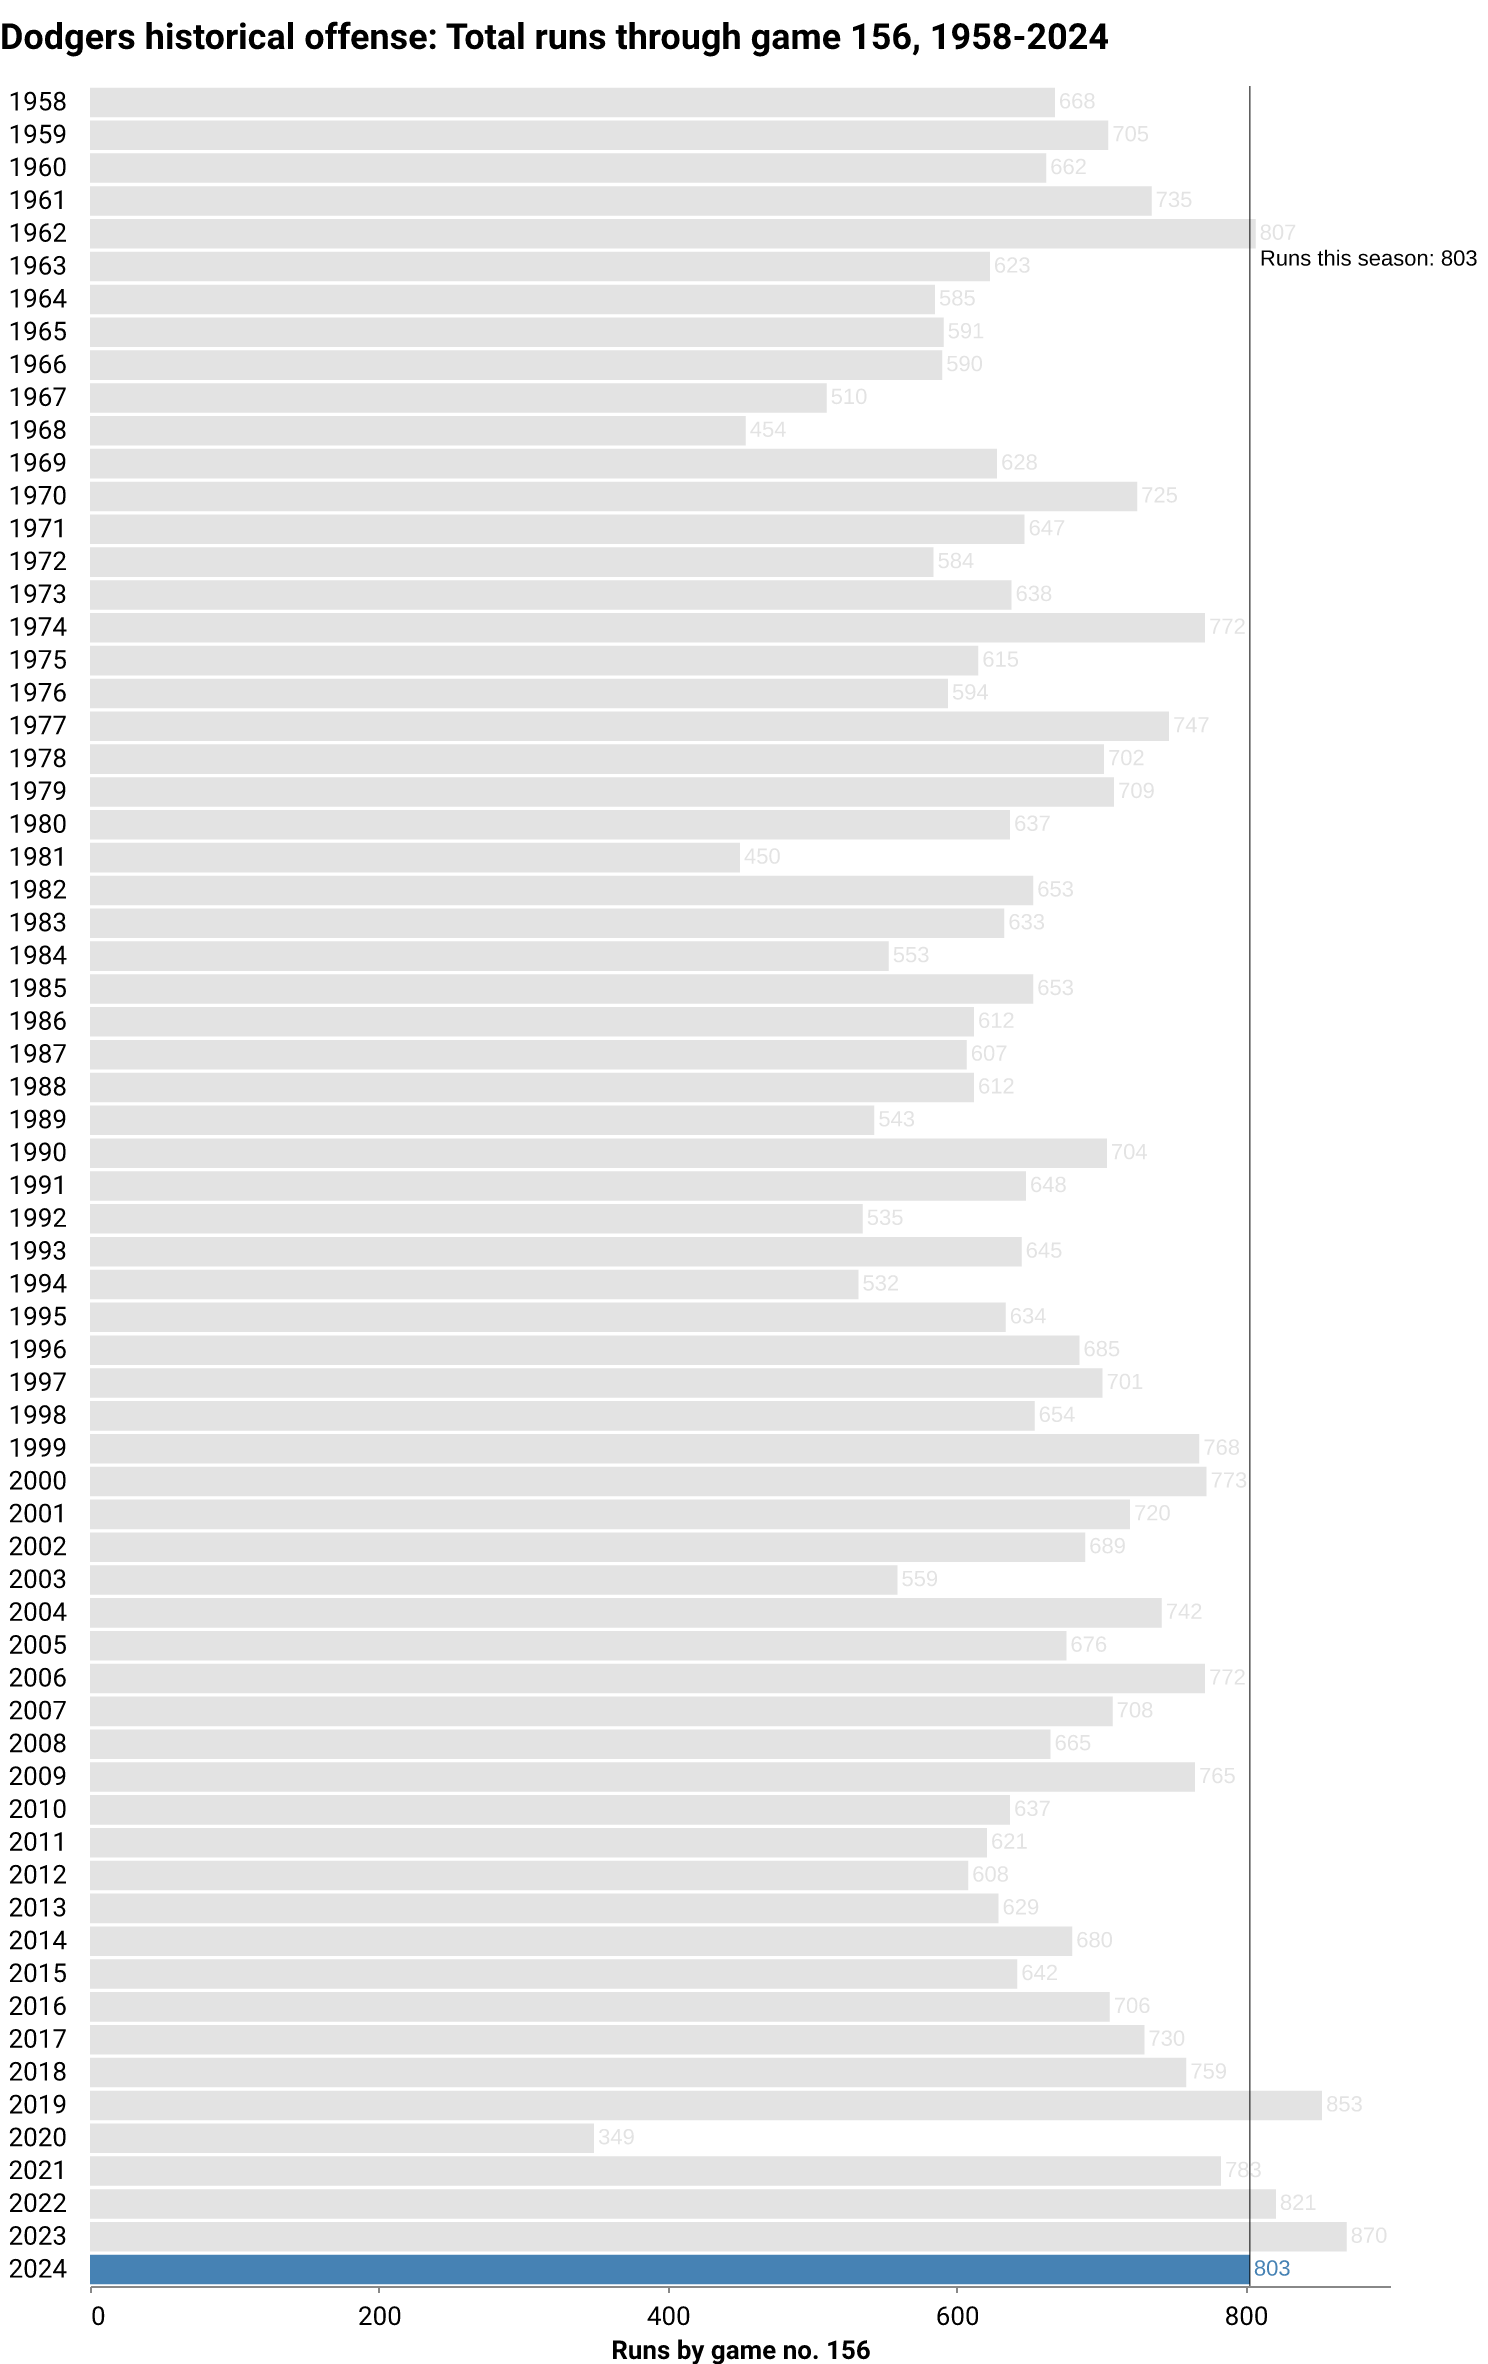
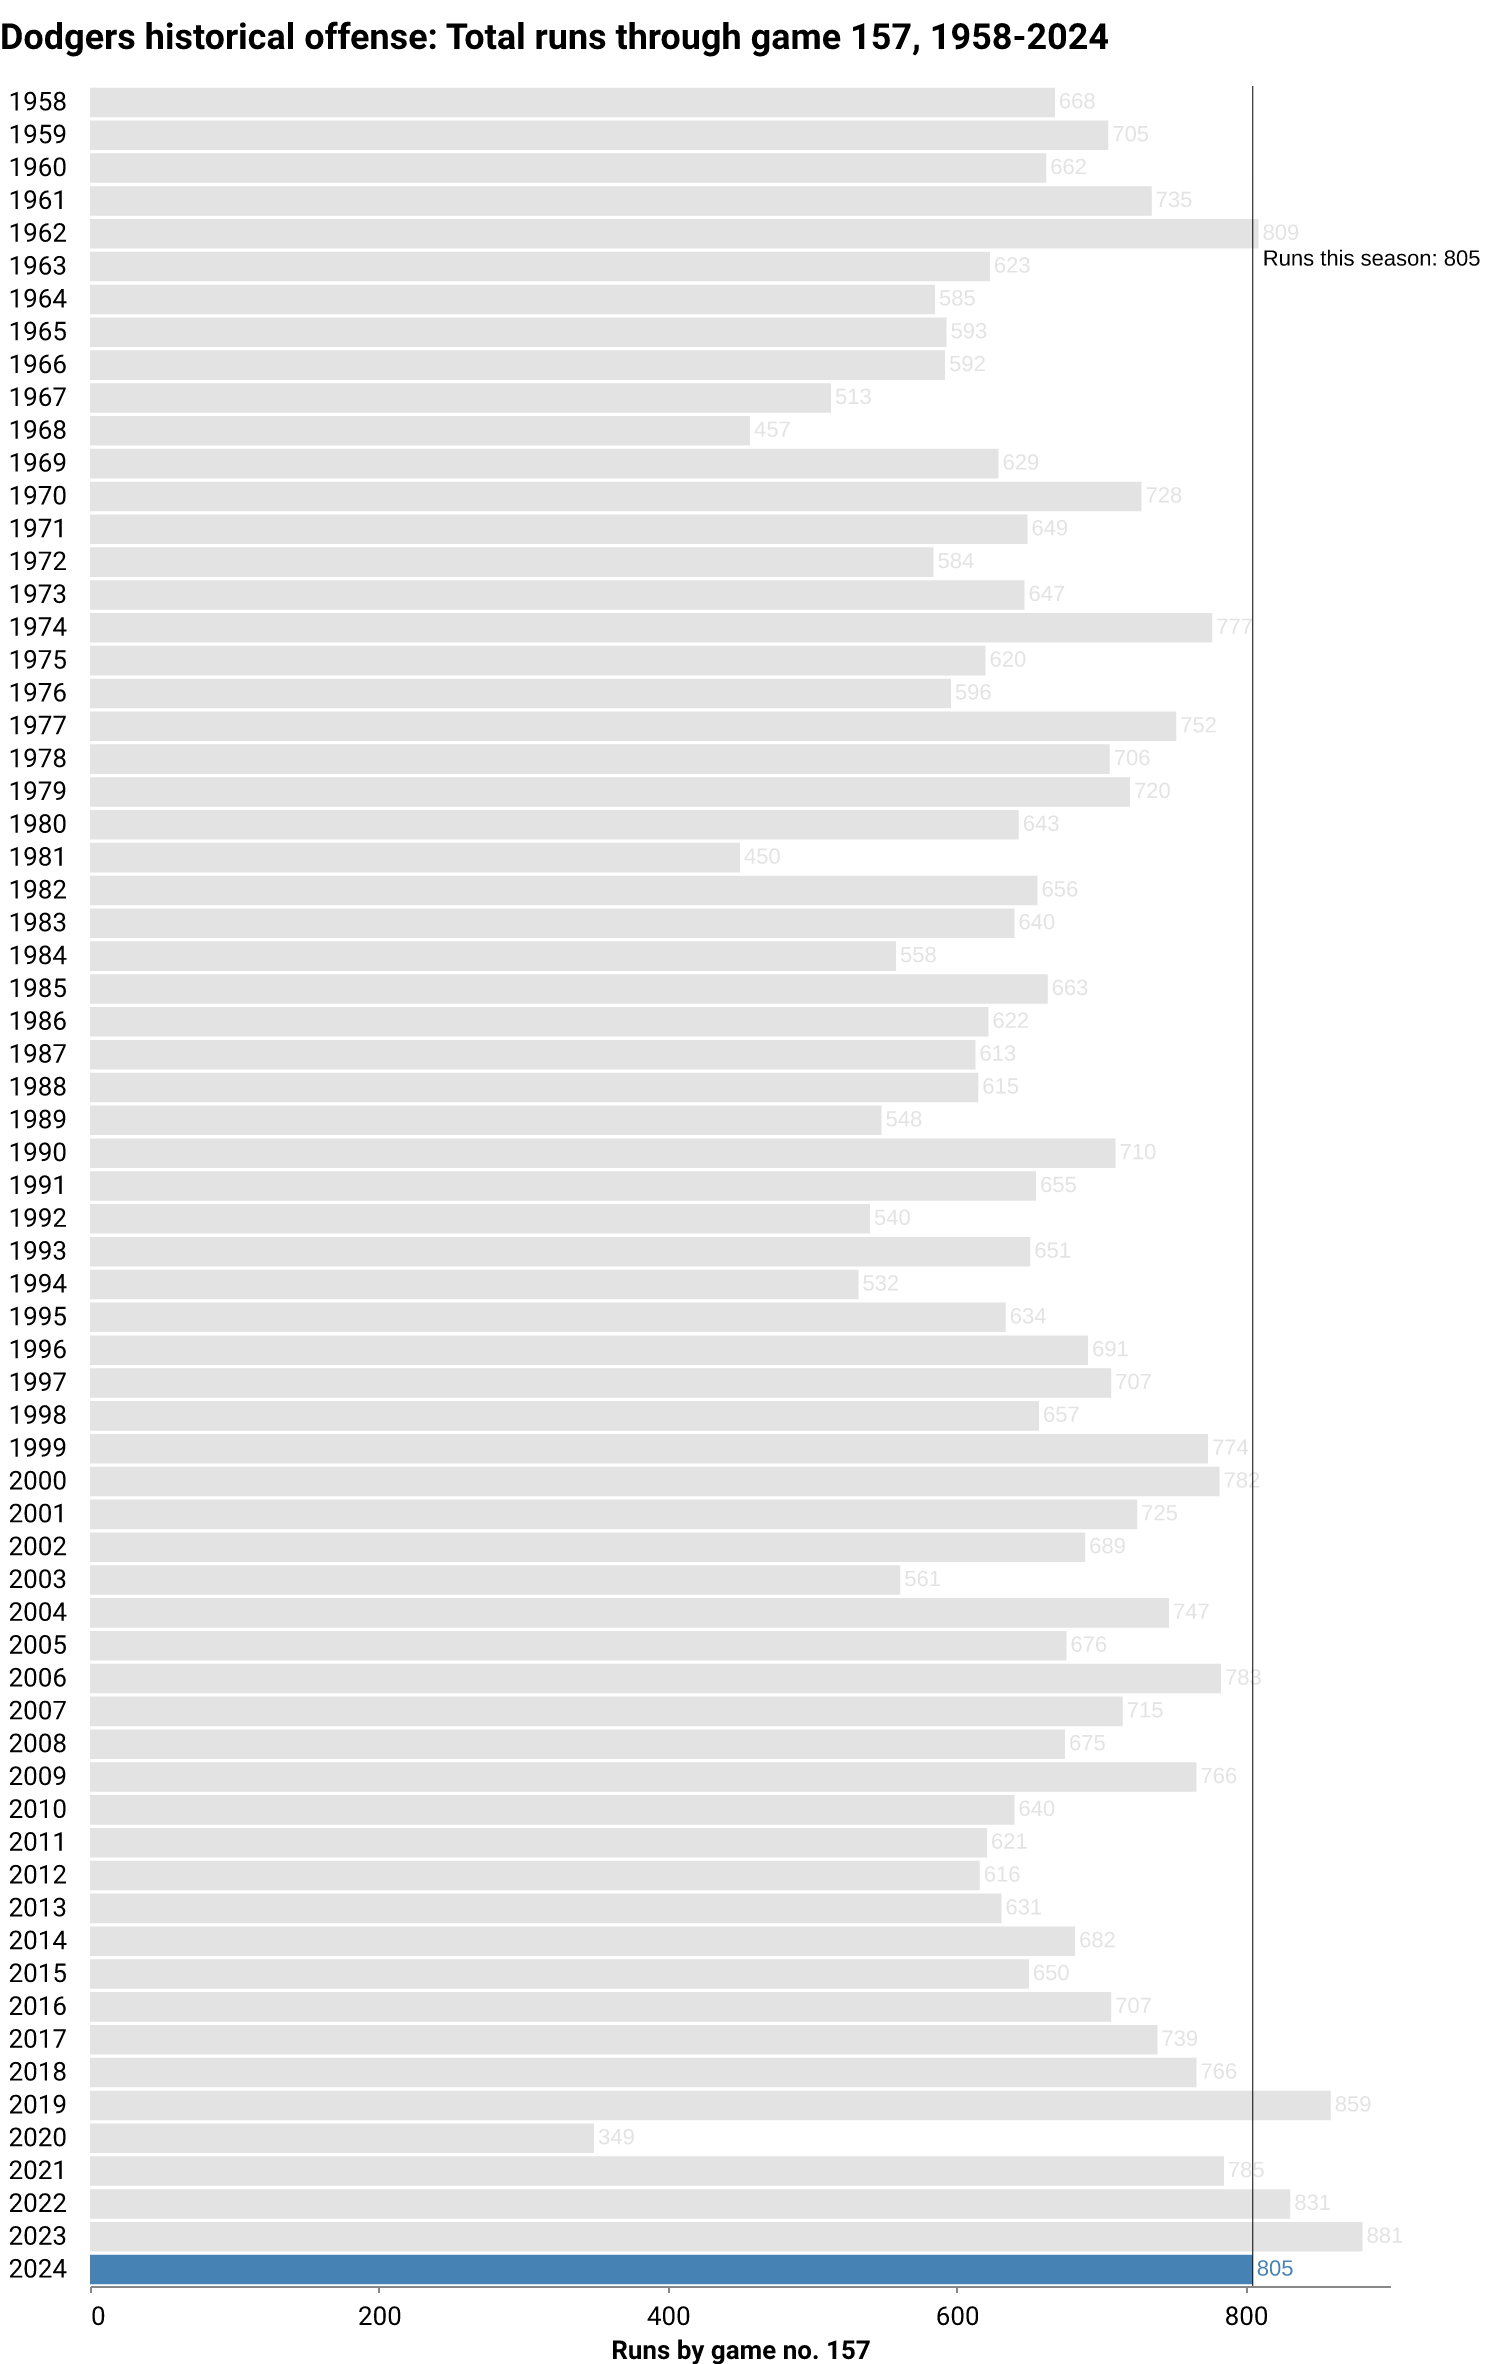
deploy: b23a1b70c40e7889449afc7167f664152f757f57

diff --git a/index.html b/index.html
@@ -177,14 +177,14 @@
     
     
     
-        <i class="fa-solid fa-arrow-trend-up" style="color: #005a9c;"></i>
+        <i class="fa-solid fa-arrow-trend-down" style="color: #ef3e42;"></i>
     
 </div>
 <h1 class="headline">How are the Dodgers doing?</h1>
 <p class="subhead">
     
     
-    <span class="highlight">LOS ANGELES</span> <span class="updated">(September 25)</span> — After <span class="highlight">156</span> games this season, the Dodgers are in <span class="highlight">1st</span> place in the National League West division. The team has compiled a <span class="highlight">93-63</span> record, winning <span class="highlight">60%</span> of its games so far. The last game was a <span class="highlight">6-5</span> home <span class="highlight">win</span> against the Colorado Rockies in front of <span class="highlight">50,730</span> fans. They've won <span class="highlight">6 of the last 10</span>.
+    <span class="highlight">LOS ANGELES</span> <span class="updated">(September 25)</span> — After <span class="highlight">157</span> games this season, the Dodgers are in <span class="highlight">1st</span> place in the National League West division. The team has compiled a <span class="highlight">93-64</span> record, winning <span class="highlight">59%</span> of its games so far. The last game was a <span class="highlight">2-4</span> home <span class="highlight">loss</span> against the San Diego Padres in front of <span class="highlight">50,369</span> fans. They've won <span class="highlight">6 of the last 10</span>.
 </p>
 </div>
 
@@ -209,7 +209,7 @@
             <p class="card-text">93</p>
           </div>
           <div class="card-footer text-muted">
-        This point last season: 96
+        This point last season: 97
           </div>
         </div>
       </div>
@@ -222,7 +222,7 @@
             Losses
           </div>
           <div class="card-body">
-            <p class="card-text">63</p>
+            <p class="card-text">64</p>
           </div>
           <div class="card-footer text-muted">
         This point last season: 60
@@ -238,10 +238,10 @@
             Record
           </div>
           <div class="card-body">
-            <p class="card-text">93-63</p>
+            <p class="card-text">93-64</p>
           </div>
           <div class="card-footer text-muted">
-        This point last season: 96-60
+        This point last season: 97-60
           </div>
         </div>
       </div>
@@ -254,7 +254,7 @@
             Win percentage
           </div>
           <div class="card-body">
-            <p class="card-text">60%</p>
+            <p class="card-text">59%</p>
           </div>
           <div class="card-footer text-muted">
         This point last season: 62%
@@ -270,7 +270,7 @@
             Games up/back
           </div>
           <div class="card-body">
-            <p class="card-text">3.0</p>
+            <p class="card-text">2.0</p>
           </div>
           <div class="card-footer text-muted">
         Division rank: 1
@@ -286,10 +286,10 @@
             Avg. home attendance
           </div>
           <div class="card-body">
-            <p class="card-text">48,540</p>
+            <p class="card-text">48,563</p>
           </div>
           <div class="card-footer text-muted">
-        Home games this season: 78
+        Home games this season: 79
           </div>
         </div>
       </div>
@@ -302,7 +302,7 @@
             Runs
           </div>
           <div class="card-body">
-            <p class="card-text">803</p>
+            <p class="card-text">805</p>
           </div>
           <div class="card-footer text-muted">
         League rank: 2
@@ -318,10 +318,10 @@
             Runs against
           </div>
           <div class="card-body">
-            <p class="card-text">670</p>
+            <p class="card-text">674</p>
           </div>
           <div class="card-footer text-muted">
-        This point last season: 675
+        This point last season: 677
           </div>
         </div>
       </div>
@@ -334,10 +334,10 @@
             Run differential
           </div>
           <div class="card-body">
-            <p class="card-text">133</p>
+            <p class="card-text">131</p>
           </div>
           <div class="card-footer text-muted">
-        This point last season: 195
+        This point last season: 204
           </div>
         </div>
       </div>
@@ -408,7 +408,7 @@
             Batting average
           </div>
           <div class="card-body">
-            <p class="card-text">.255</p>
+            <p class="card-text">.256</p>
           </div>
           <div class="card-footer text-muted">
         Last decade average: .253
@@ -440,7 +440,7 @@
             Home runs/game
           </div>
           <div class="card-body">
-            <p class="card-text">1.44</p>
+            <p class="card-text">1.43</p>
           </div>
           <div class="card-footer text-muted">
         Last decade average: 1.36
@@ -456,7 +456,7 @@
             On-base percentage
           </div>
           <div class="card-body">
-            <p class="card-text">.332</p>
+            <p class="card-text">.333</p>
           </div>
           <div class="card-footer text-muted">
         Last decade average: .332
@@ -605,7 +605,7 @@
             Strikeouts
           </div>
           <div class="card-body">
-            <p class="card-text">1337</p>
+            <p class="card-text">1344</p>
           </div>
           <div class="card-footer text-muted">
         League rank: 7
@@ -621,7 +621,7 @@
             Walks
           </div>
           <div class="card-body">
-            <p class="card-text">483</p>
+            <p class="card-text">484</p>
           </div>
           <div class="card-footer text-muted">
         League rank: 10
@@ -716,7 +716,7 @@
     </div>
 </div>
 
-  <p class="dated">Notes: Last updated September 25, 2024, 12:03 AM PT. More <a href="https://github.com/stiles/dodgers/blob/main/README.md">about the data</a>.</p>
+  <p class="dated">Notes: Last updated September 25, 2024, 4:03 AM PT. More <a href="https://github.com/stiles/dodgers/blob/main/README.md">about the data</a>.</p>
   
 </div>
 
